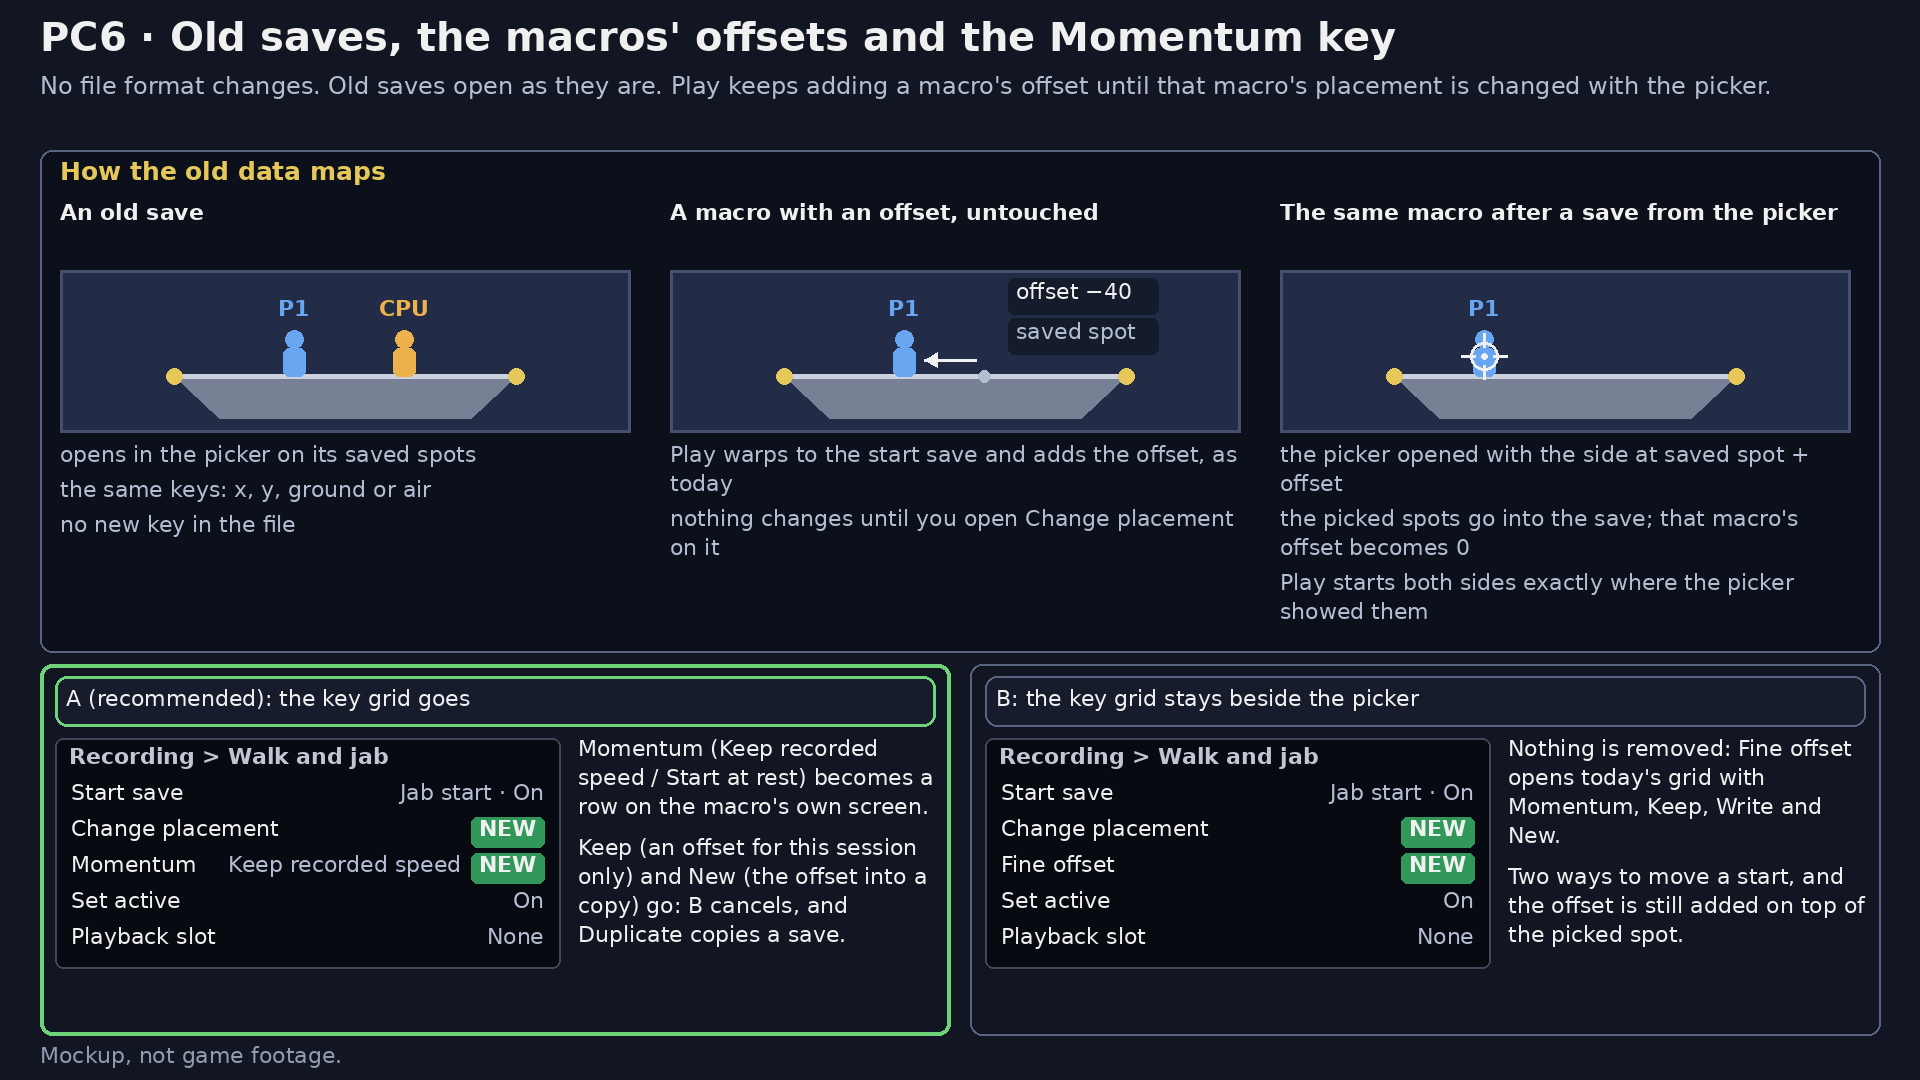
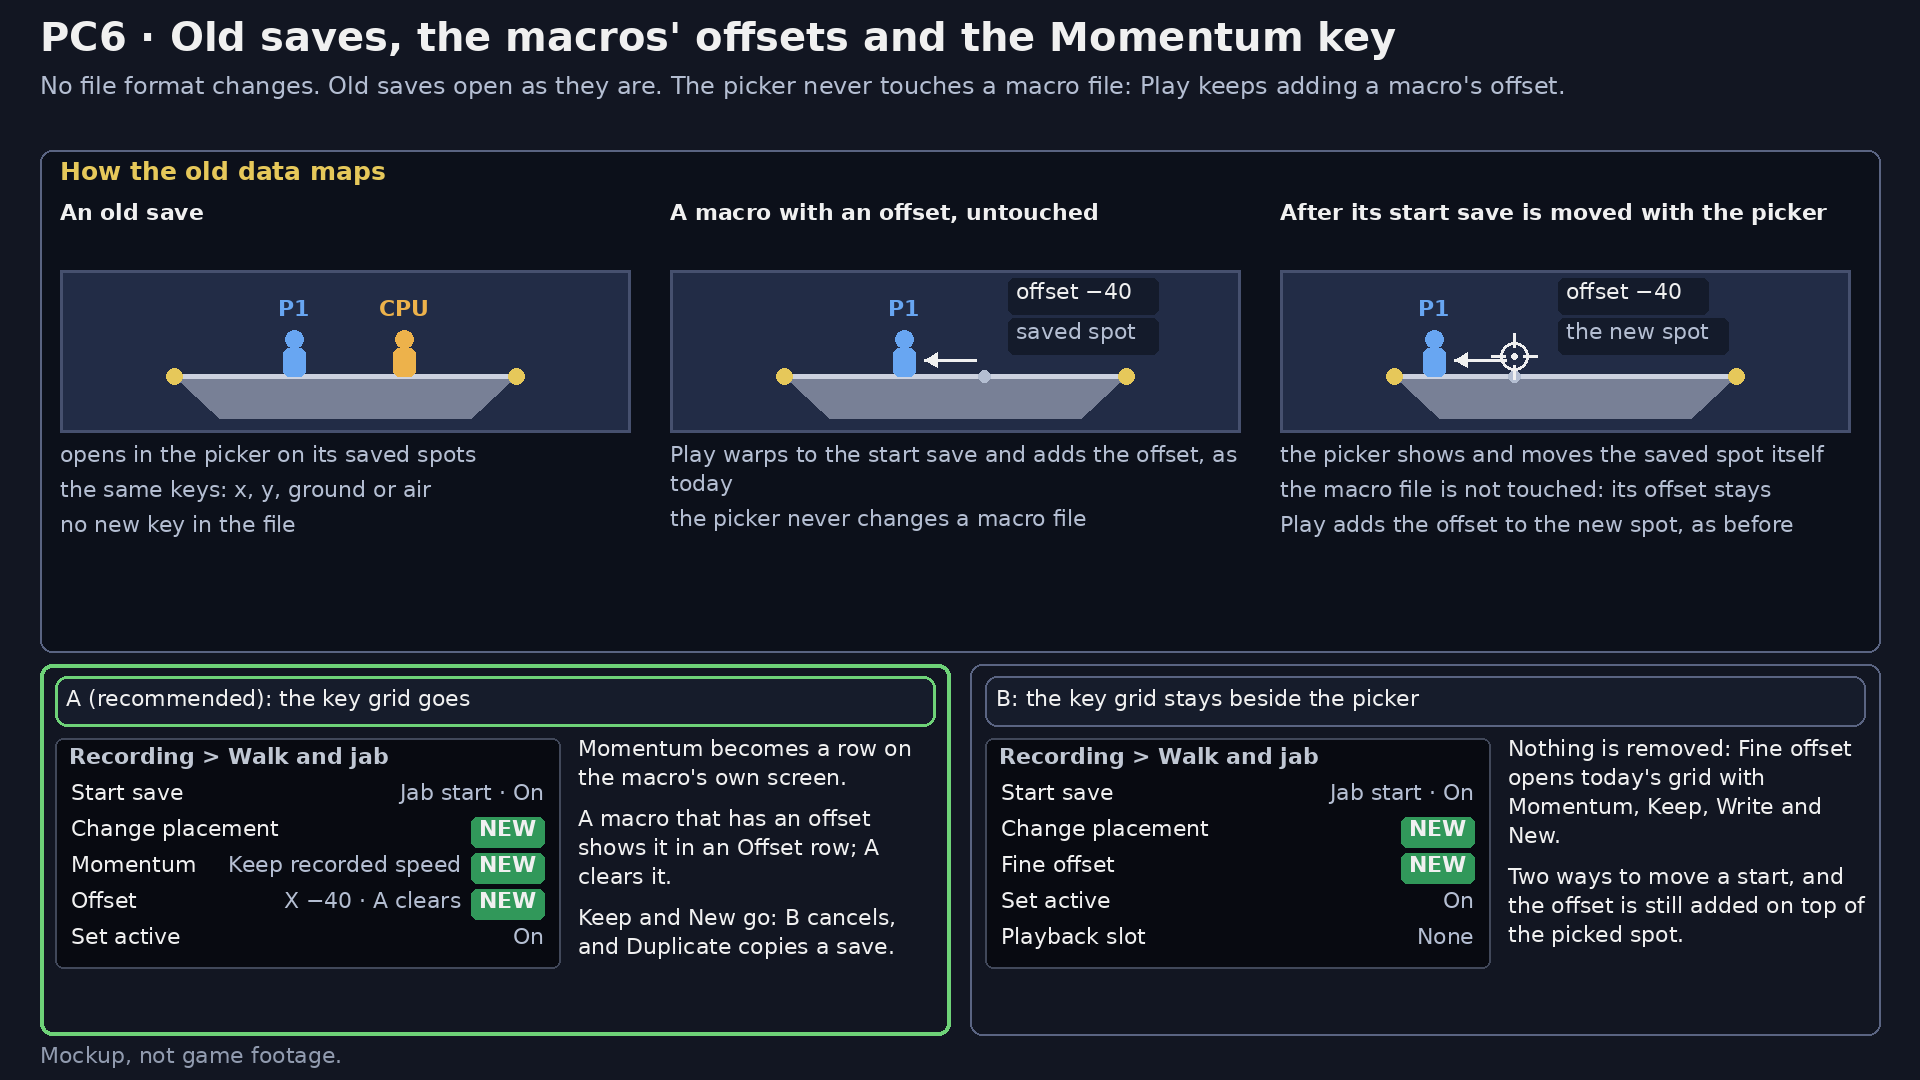
Docs: placement choices, PC6 corrected (a macro keeps its offset; Offset row)

diff --git a/docs/decisions/placement-crosshair/README.md b/docs/decisions/placement-crosshair/README.md
@@ -73,7 +73,9 @@ Either way, the old Edit placement row in Recording › Replays is removed.
 
 | | Option |
 | --- | --- |
-| **A** | The grid goes, and Momentum becomes a row on the macro's own screen. Keep and New go too: B cancels, and Duplicate copies a save. |
+| **A** | The grid goes, and Momentum becomes a row on the macro's own screen. A macro that already has an offset shows it in a new Offset row, and A clears it. Keep and New go too: B cancels, and Duplicate copies a save. |
 | B | The grid stays as "Fine offset". That gives two ways to move a start, and the offset is still added on top of the picked spot. |
 
-Old saves and macros keep working either way. Nothing in the file format changes, and a macro's old offset applies until you place it with the new picker.
+Old saves and macros keep working either way. Nothing in the file format changes. The picker moves the save itself and never edits a macro file. A macro's old offset stays, and Play adds it on top of the new spot until you clear it (with option A, in the Offset row).
+
+*Updated 2026-11-25 15:31Z: the PC6 picture and text were corrected by the design lane. Earlier, a macro's offset became 0 after you used the picker; now it stays until you clear it.*
